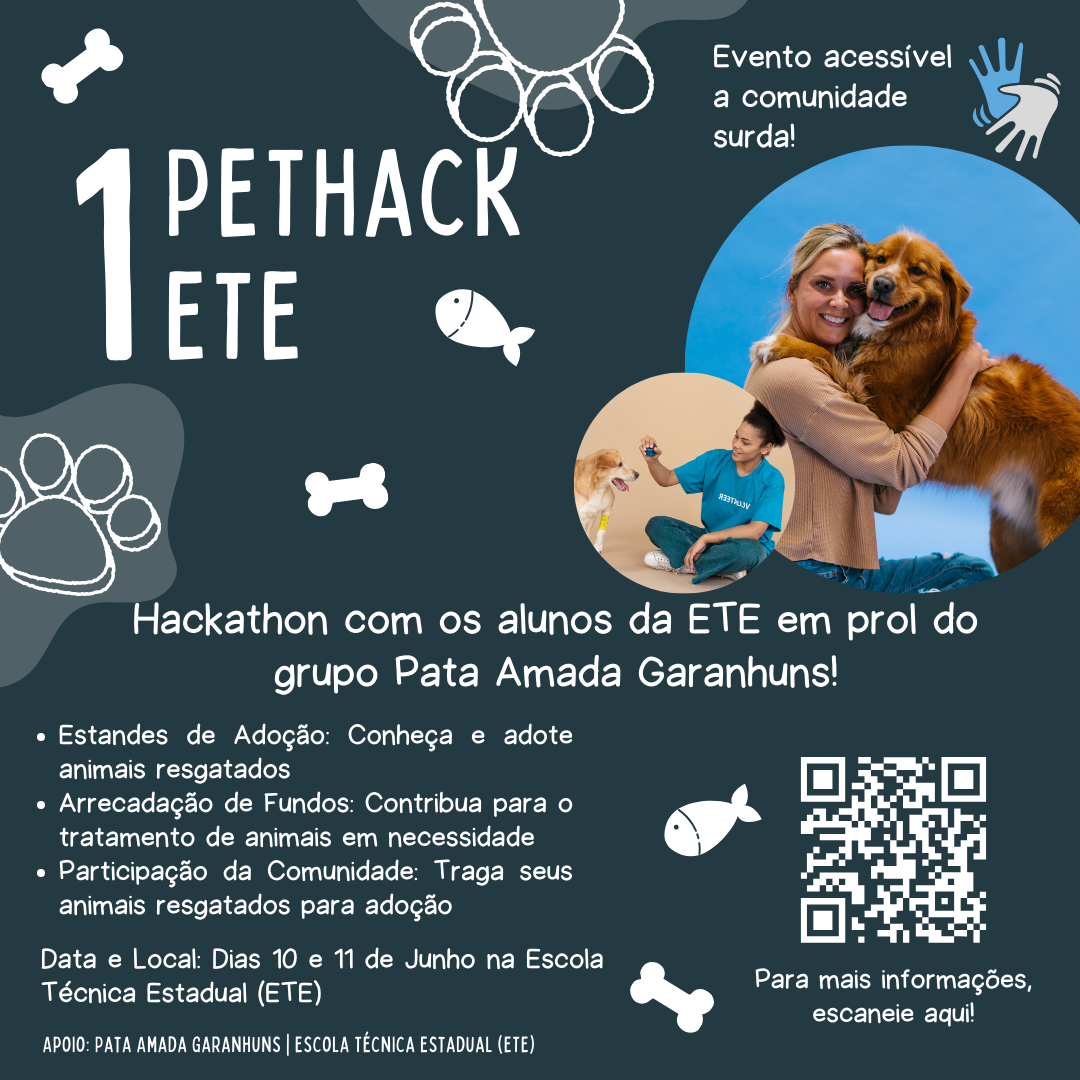
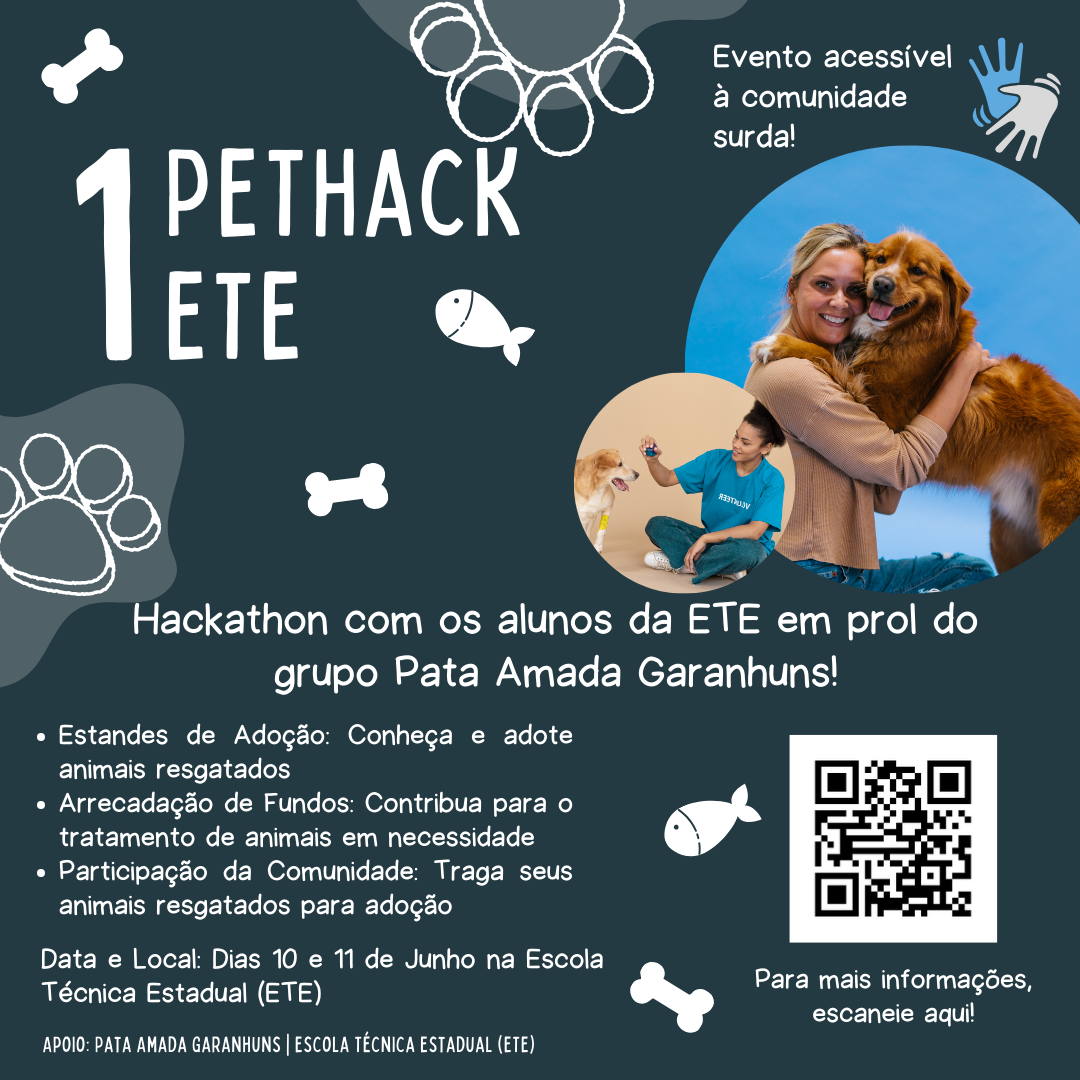
msg2

Changed region(s): [[0.7333, 0.6722, 0.9472, 0.8861]]

diff --git a/index.html b/index.html
@@ -316,7 +316,7 @@
     			</div>
 
     			<div class="col-lg-6 ftco-animate">
-					<p>Link para o banner abaixo: <a href="https://streamable.com/tm6pjy">https://streamable.com/tm6pjy</a></p>
+					<p>Link para o banner abaixo: <a href="https://i.imgur.com/49mHdqg.png">https://i.imgur.com/49mHdqg.png</a></p>
     				<div class="work mb-6 img d-flex align-items-end" style="background-image: url(images/banner.png);">
 						<a href="images/banner.png" class="icon image-popup d-flex justify-content-center align-items-center">
 							<span class="fa fa-expand"></span>
@@ -324,10 +324,10 @@
     				</div>
 
 
-					<div class="col-lg-6 ftco-animate">
-							<p>Link para o nosso QR Code: <a href="https://streamable.com/tm6pjy">https://streamable.com/tm6pjy</a></p>
-						<div class="work mb-6 img d-flex align-items-end" style="background-image: url(images/banner.png);">
-							<a href="images/banner.png" class="icon image-popup d-flex justify-content-center align-items-center">
+					<div class="ftco-animate">
+							<p>Link para o nosso QR Code: <a href="https://i.imgur.com/3HWVkte.png">https://i.imgur.com/3HWVkte.png</a></p>
+						<div class="work mb-6 img d-flex align-items-end" style="background-image: url(images/qrcode.png); box-shadow: none; background-size: contain;">
+							<a href="images/qrcode.png" class="icon image-popup d-flex justify-content-center align-items-center">
 								<span class="fa fa-expand"></span>
 							</a>  
 						</div>
